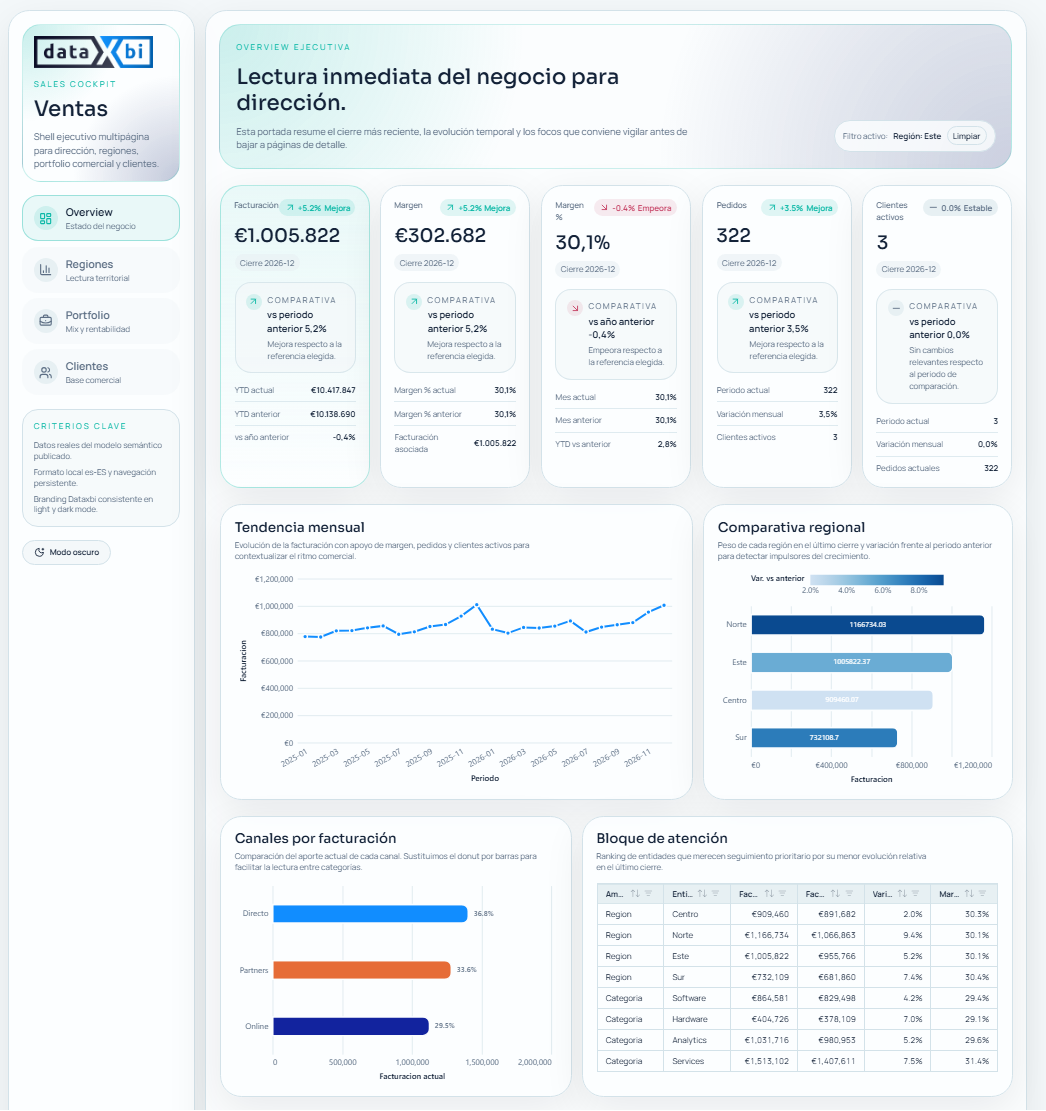
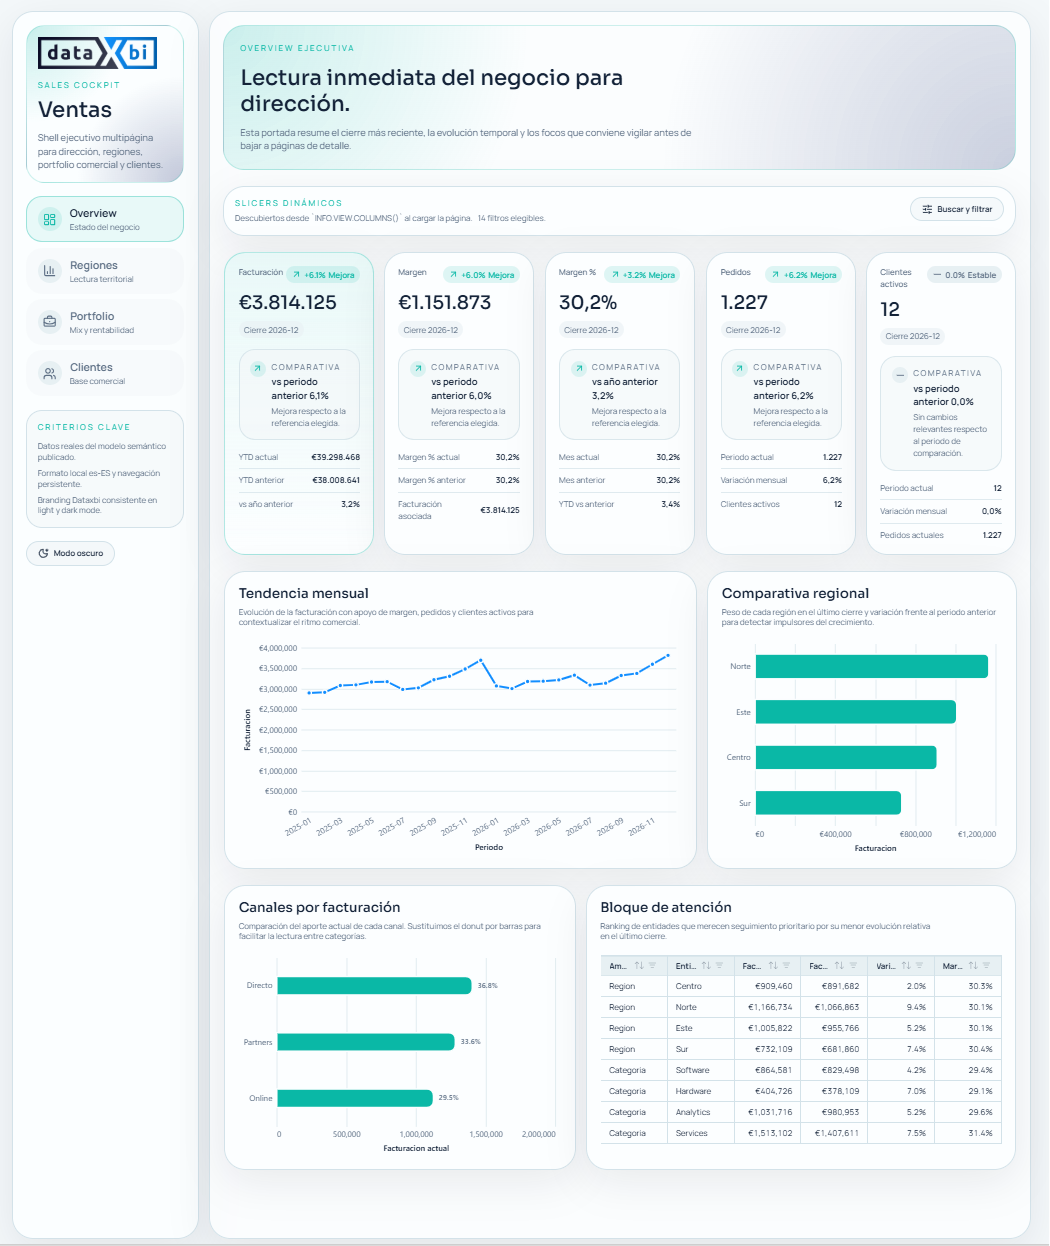
Modificando el README

diff --git a/README.md b/README.md
@@ -3,7 +3,16 @@
 
 Una aplicación de Fabric creada con la plantilla Data App de Rayfin y que se conecta a un modelo semántico de ventas.
 
+Funciona el **cross-filter** entre visuales y tiene un panel para indicar los filtros seleccionados y limpairlos.
+
+También se incorporó un **panel de filtros dínamicos** que al cargar la aplicación identifica las dimensiones, usando las funciones INFO de DAX, y construye dinácamente los controles de filtro acorde al tipo de datos. 
+
+
 ![Pantallazo de la portada del cuadro de mando de ventas](/dataXbi-fabric-apps-hello-dax.png)
+
+![Un fragmento de la página donde se ve el panel indicador de los cross-filter aplicados.](/dataXbi-fabric-apps-hello-dax-cross-filter.png)
+
+![El panel de filtros dinámicos.](/dataXbi-fabric-apps-hello-dax-dynamic-filters.png)
 
 ## Estado actual
 